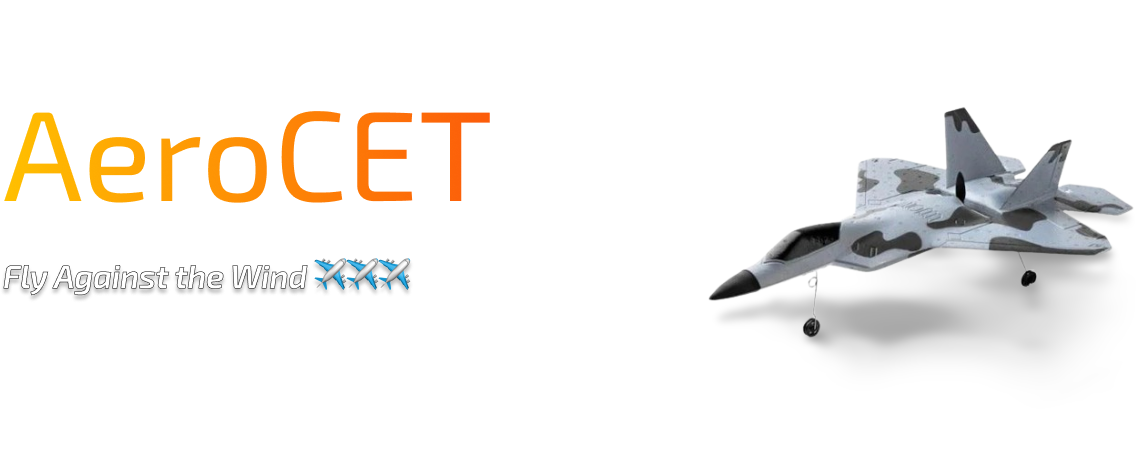
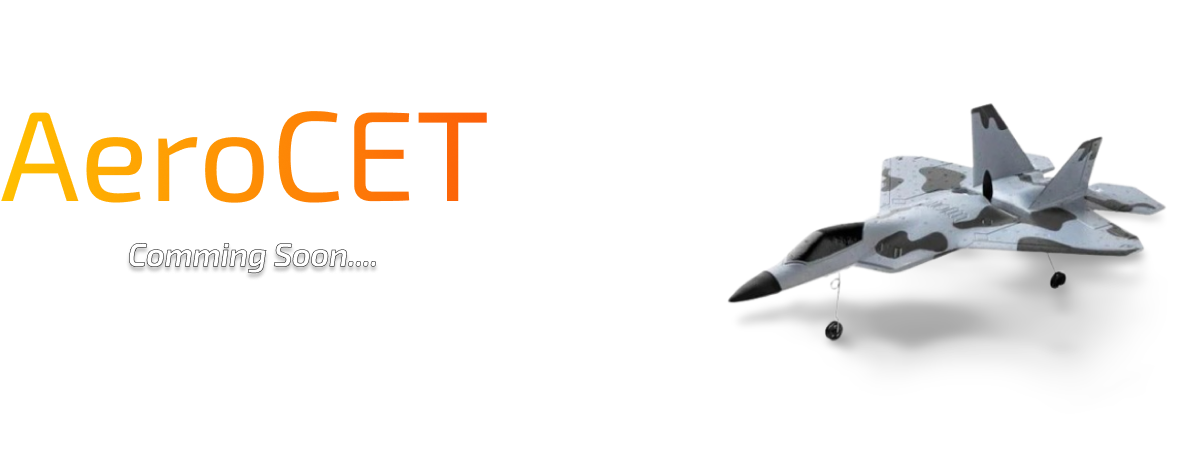
Commit soon added

diff --git a/src/app/App.tsx b/src/app/App.tsx
@@ -1,7 +1,5 @@
-import Navbar from '../Components/Navbar';
 import { NotFound } from '../Pages/404Error';
 import { Home } from '../Pages/Home'
-import { Teams } from '../Pages/Teams'
 import './App.css'
 import { BrowserRouter as Router, Routes, Route } from 'react-router-dom';
 export const App = ()=>{
@@ -9,10 +7,8 @@ export const App = ()=>{
   return (
     <div className='app'>
       <Router>
-      <Navbar/>
       <Routes>
       <Route path="/" element={<Home />} />
-      <Route path="/teams" element={<Teams />} />
       <Route path="*" element={<NotFound />} />
     </Routes>
   </Router>

diff --git a/src/Pages/Home.tsx b/src/Pages/Home.tsx
@@ -1,11 +1,9 @@
+import { Banner } from "../Components/Banner"
+
 export const Home = () =>{
       return(
           <>
-          <div className="flex-1 justify-center items-center flex h-svh">
-                    <h1 className="text-3xl">
-                              Home
-                    </h1>
-          </div>
+               <Banner/>
           </>
       )    
 }

diff --git a/src/Components/Banner.tsx b/src/Components/Banner.tsx
@@ -1,0 +1,10 @@
+import banner from '../assets/images/Banner.png'
+export const Banner = () =>{
+      return(
+          <>
+          <div className="flex-1 h-svh justify-center flex items-center bg-slate-900  px-6">
+                    <img src={banner}></img>
+          </div>
+          </>
+      )    
+}

diff --git a/src/Loader.tsx b/src/Loader.tsx
@@ -9,7 +9,7 @@ export default function Loader() {
   useEffect(() => {
     const timeoutId = setTimeout(() => {
       setShowApp(true);
-    }, 500);
+    }, 2000);
 
     return () => {
       clearTimeout(timeoutId);
